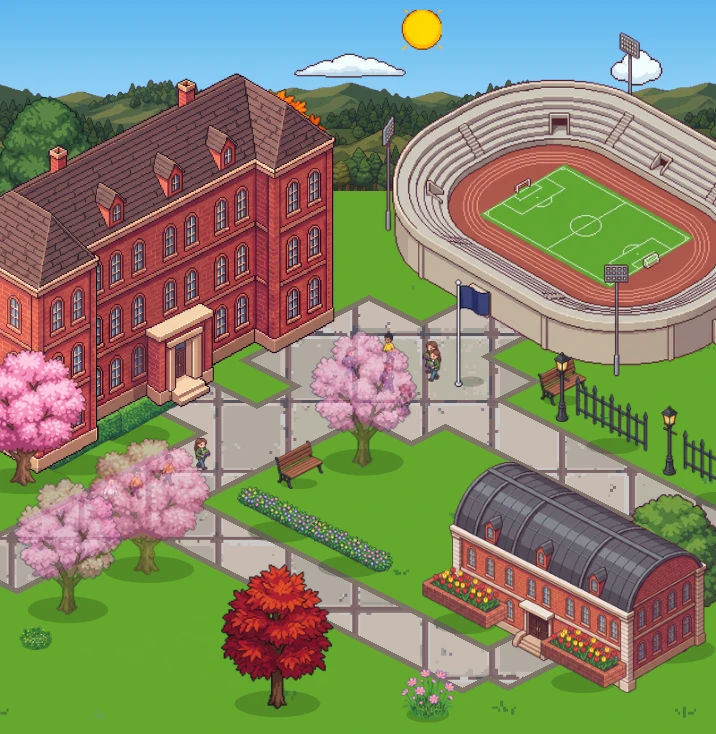
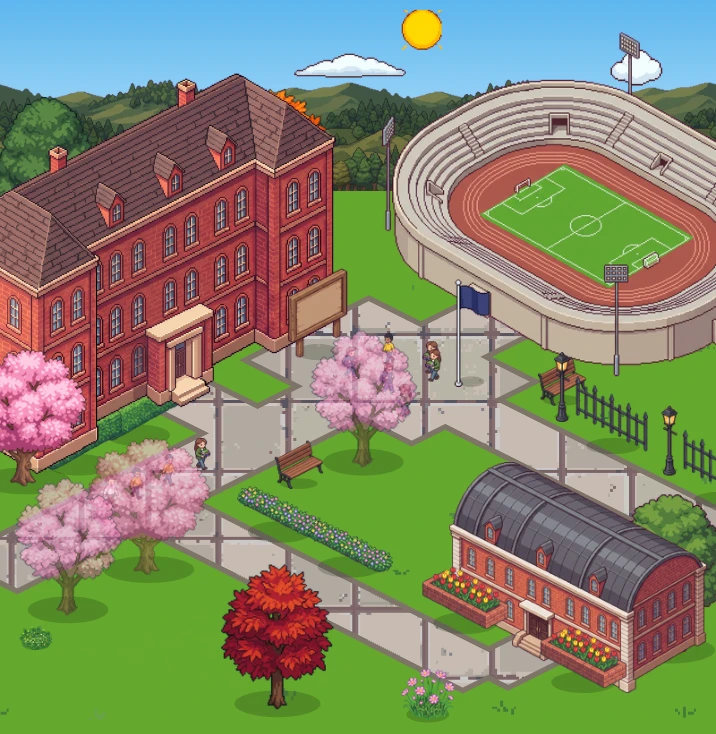
feat: 학교 Lv.7 배경 수정

Changed region(s): [[0.3994, 0.3597, 0.4916, 0.5095]]

diff --git a/frontend/src/data/campusLayouts.ts b/frontend/src/data/campusLayouts.ts
@@ -407,16 +407,18 @@ export const CAMPUS_LAYOUTS: Readonly<Partial<Record<number, CampusLayout>>> = {
       ...[80, 160, 190].map((v, i) => at(i % 2 ? 'tree-cherry-1' : 'tree-cherry-2', iso(lv7Gate, 30, v), { flip: i % 2 === 1, opacity: 0.6 })),
       ...along(iso(lv7Gate, 0, 150), lv7Avenue[1], 2).map((p, i) => at(i % 2 ? 'tree-cherry-2' : 'tree-cherry-1', iso(p, -26), { flip: i % 2 === 0 })),
       at('tree-maple-orange', P(150, 96 + 20)), at('tree-oak-2', P(64, 128)),
-      at('flag', iso(lv7Plaza, 20, -10)), at('bench', iso(lv7Plaza, 44, -20)),
+      at('flag', iso(lv7Plaza, 20, -10)), at('bench', iso(lv7Plaza, 44, -13), { flip: true }),
       ...crowd(lv7Plaza, 26, 18, 6, 4), ...crowd(iso(lv7Gate, 0, 110), 4, 40, 4, 5),
-      at('tree-oak-1', P(296, 272)), at('tree-maple-red', P(150, 292), { flip: true }), at('bench', iso(lv7Gate, 26, 100)),
+      at('tree-oak-1', P(296, 272)), at('tree-maple-red', P(150, 292), { flip: true }),
       ...along(iso(lv7Plaza, 50), iso(lv7Plaza, 130), 3).map((p) => at('lamp', iso(p, 0, -14))),
       ...scatter([P(60, 270), P(206, 296)], 6),
+      // The school signboard stands in front of the lecture hall, beside its door, facing the way the hall does: the
+      // door is on the right face, so the board runs along V unflipped (user request 2026-11-27).
+      at('signboard', iso(faceMid(lv7Lecture, 'right'), 10, -40), { depth: lv7Lecture.y + 1 }),
       // Garden fill (F11). Long props run along V unflipped and along U flipped.
-      ...[-22, 22].map((u) => at('planter-strip', iso(lv7HallDoor, u, 6), { flip: true, depth: lv7Hall.y + 1 })),
-      ...[70, 110].map((u) => at('fence-iron', iso(lv7Plaza, u, -13), { flip: true })),
-      ...[112, 134].map((v) => at('hedge-low', iso(lv7Gate, -22, v))),
-      ...[40, 66].map((u) => at('flower-border', iso(lv7South, u, -14), { flip: true })),
+      ...[74, 115].map((u) => at('fence-iron', iso(lv7Plaza, u, -8), { flip: true })),
+      ...[122, 150].map((v) => at('hedge-low', iso(lv7Gate, -10, v))),
+      ...[40, 66].map((u) => at('flower-border', iso(lv7South, u, -10), { flip: true })),
     ],
     features: { '종합 경기장': 'stadium', '가로수길': 'tree-cherry-2', '캠퍼스 광장': 'tex-paving' },
   },

diff --git a/frontend/tests/campusScene.test.ts b/frontend/tests/campusScene.test.ts
@@ -484,6 +484,16 @@ test('Lv.4·5·6도 Lv.3처럼 학교 표지판 하나가 정해진 방향으로
   }
 });
 
+test('Lv.7 학교 표지판은 강의동 입구 옆에서 강의동과 같은 방향을 보고 강의동보다 앞에 그려진다', () => {
+  const layout = CAMPUS_LAYOUTS[7]!;
+  const hall = layout.items.find((i) => i.asset === 'lecture-2-r')!;
+  const signs = layout.items.filter((i) => i.asset === 'signboard' || i.asset === 'notice-board');
+  assert.deepEqual(signs.map((i) => i.asset), ['signboard'], 'Lv.7 has exactly one sign, the signboard');
+  // The lecture hall's door is on its right face, so the board runs along V, unflipped.
+  assert.equal(signs[0].flip, undefined);
+  assert.ok((signs[0].depth ?? signs[0].y) > hall.y, 'the signboard is drawn in front of the lecture hall');
+});
+
 test('visiting screens show the visited school scene at its score-derived level', async () => {
   const { MockGameProvider } = await import('../src/hooks/useMockGame');
   const { DEMO_VISIT_SCHOOL_ID, getSchoolById, getSchoolViews } = await import('../src/data/schoolDirectory');
